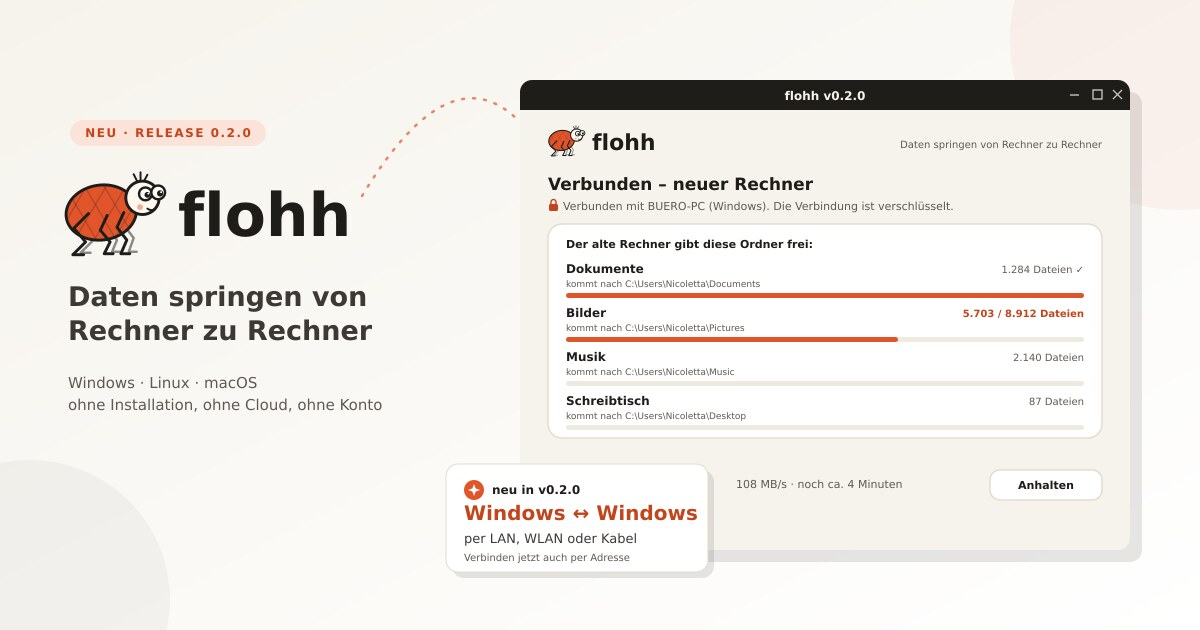
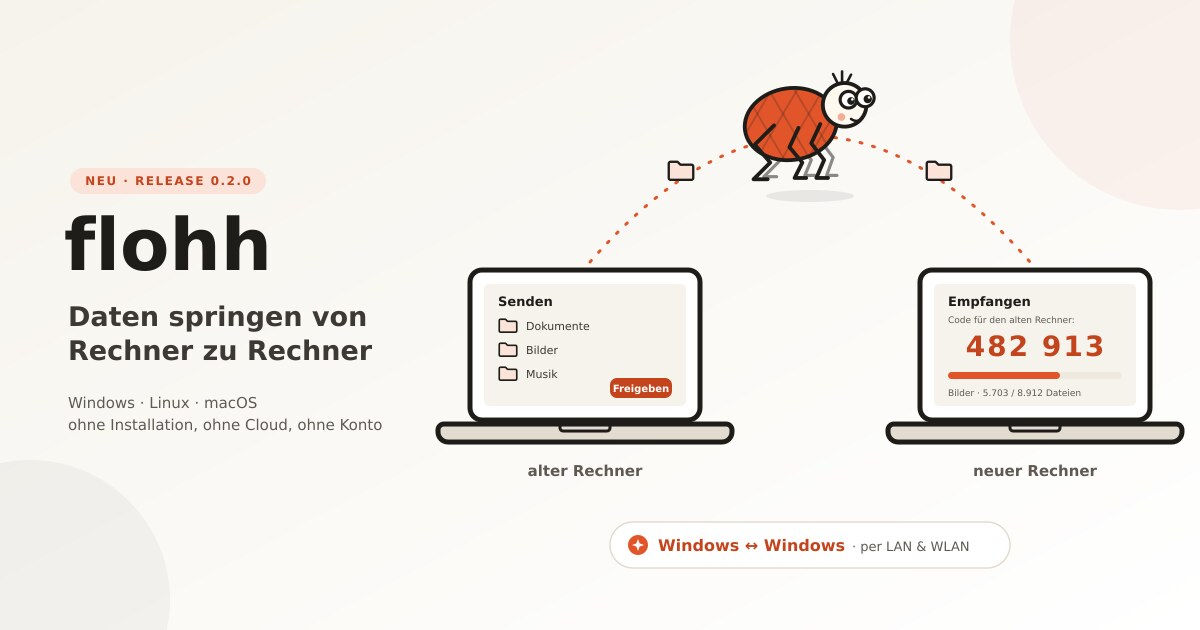
fix: flohh-Titelbild mit zwei Laptops und Floh im Sprungbogen

diff --git a/claude.md b/claude.md
@@ -140,7 +140,7 @@ Noch nicht definiert - nach Bedarf hinzufügen.
 
 ### 2026-10-25 - Blogpost flohh 0.2.0
 - `blog/posts/2026-10-25-flohh-v020.md` nach Muster des RechnungsFee-0.7.0-Posts
-- Titelbild `images/blog/flohh-v020-title.svg` im flohh-App-Look (Farben aus `web/style.css` im flohh-Repo), JPG für OG via `rsvg-convert` + `convert` in WSL gerendert
+- Titelbild `images/blog/flohh-v020-title.svg`: zwei gezeichnete Laptops (alter/neuer Rechner), gestrichelter Sprungbogen, Floh-Figur in der Mitte; Farben aus `web/style.css` im flohh-Repo, JPG für OG via `rsvg-convert` + `convert` in WSL gerendert
 
 ### 2026-10-25 - Projekt flohh hinzugefügt
 - `projects/flohh.html` (customPage, nach Kater-Muster), Eintrag in `data/projects.json` und `sitemap.html`
